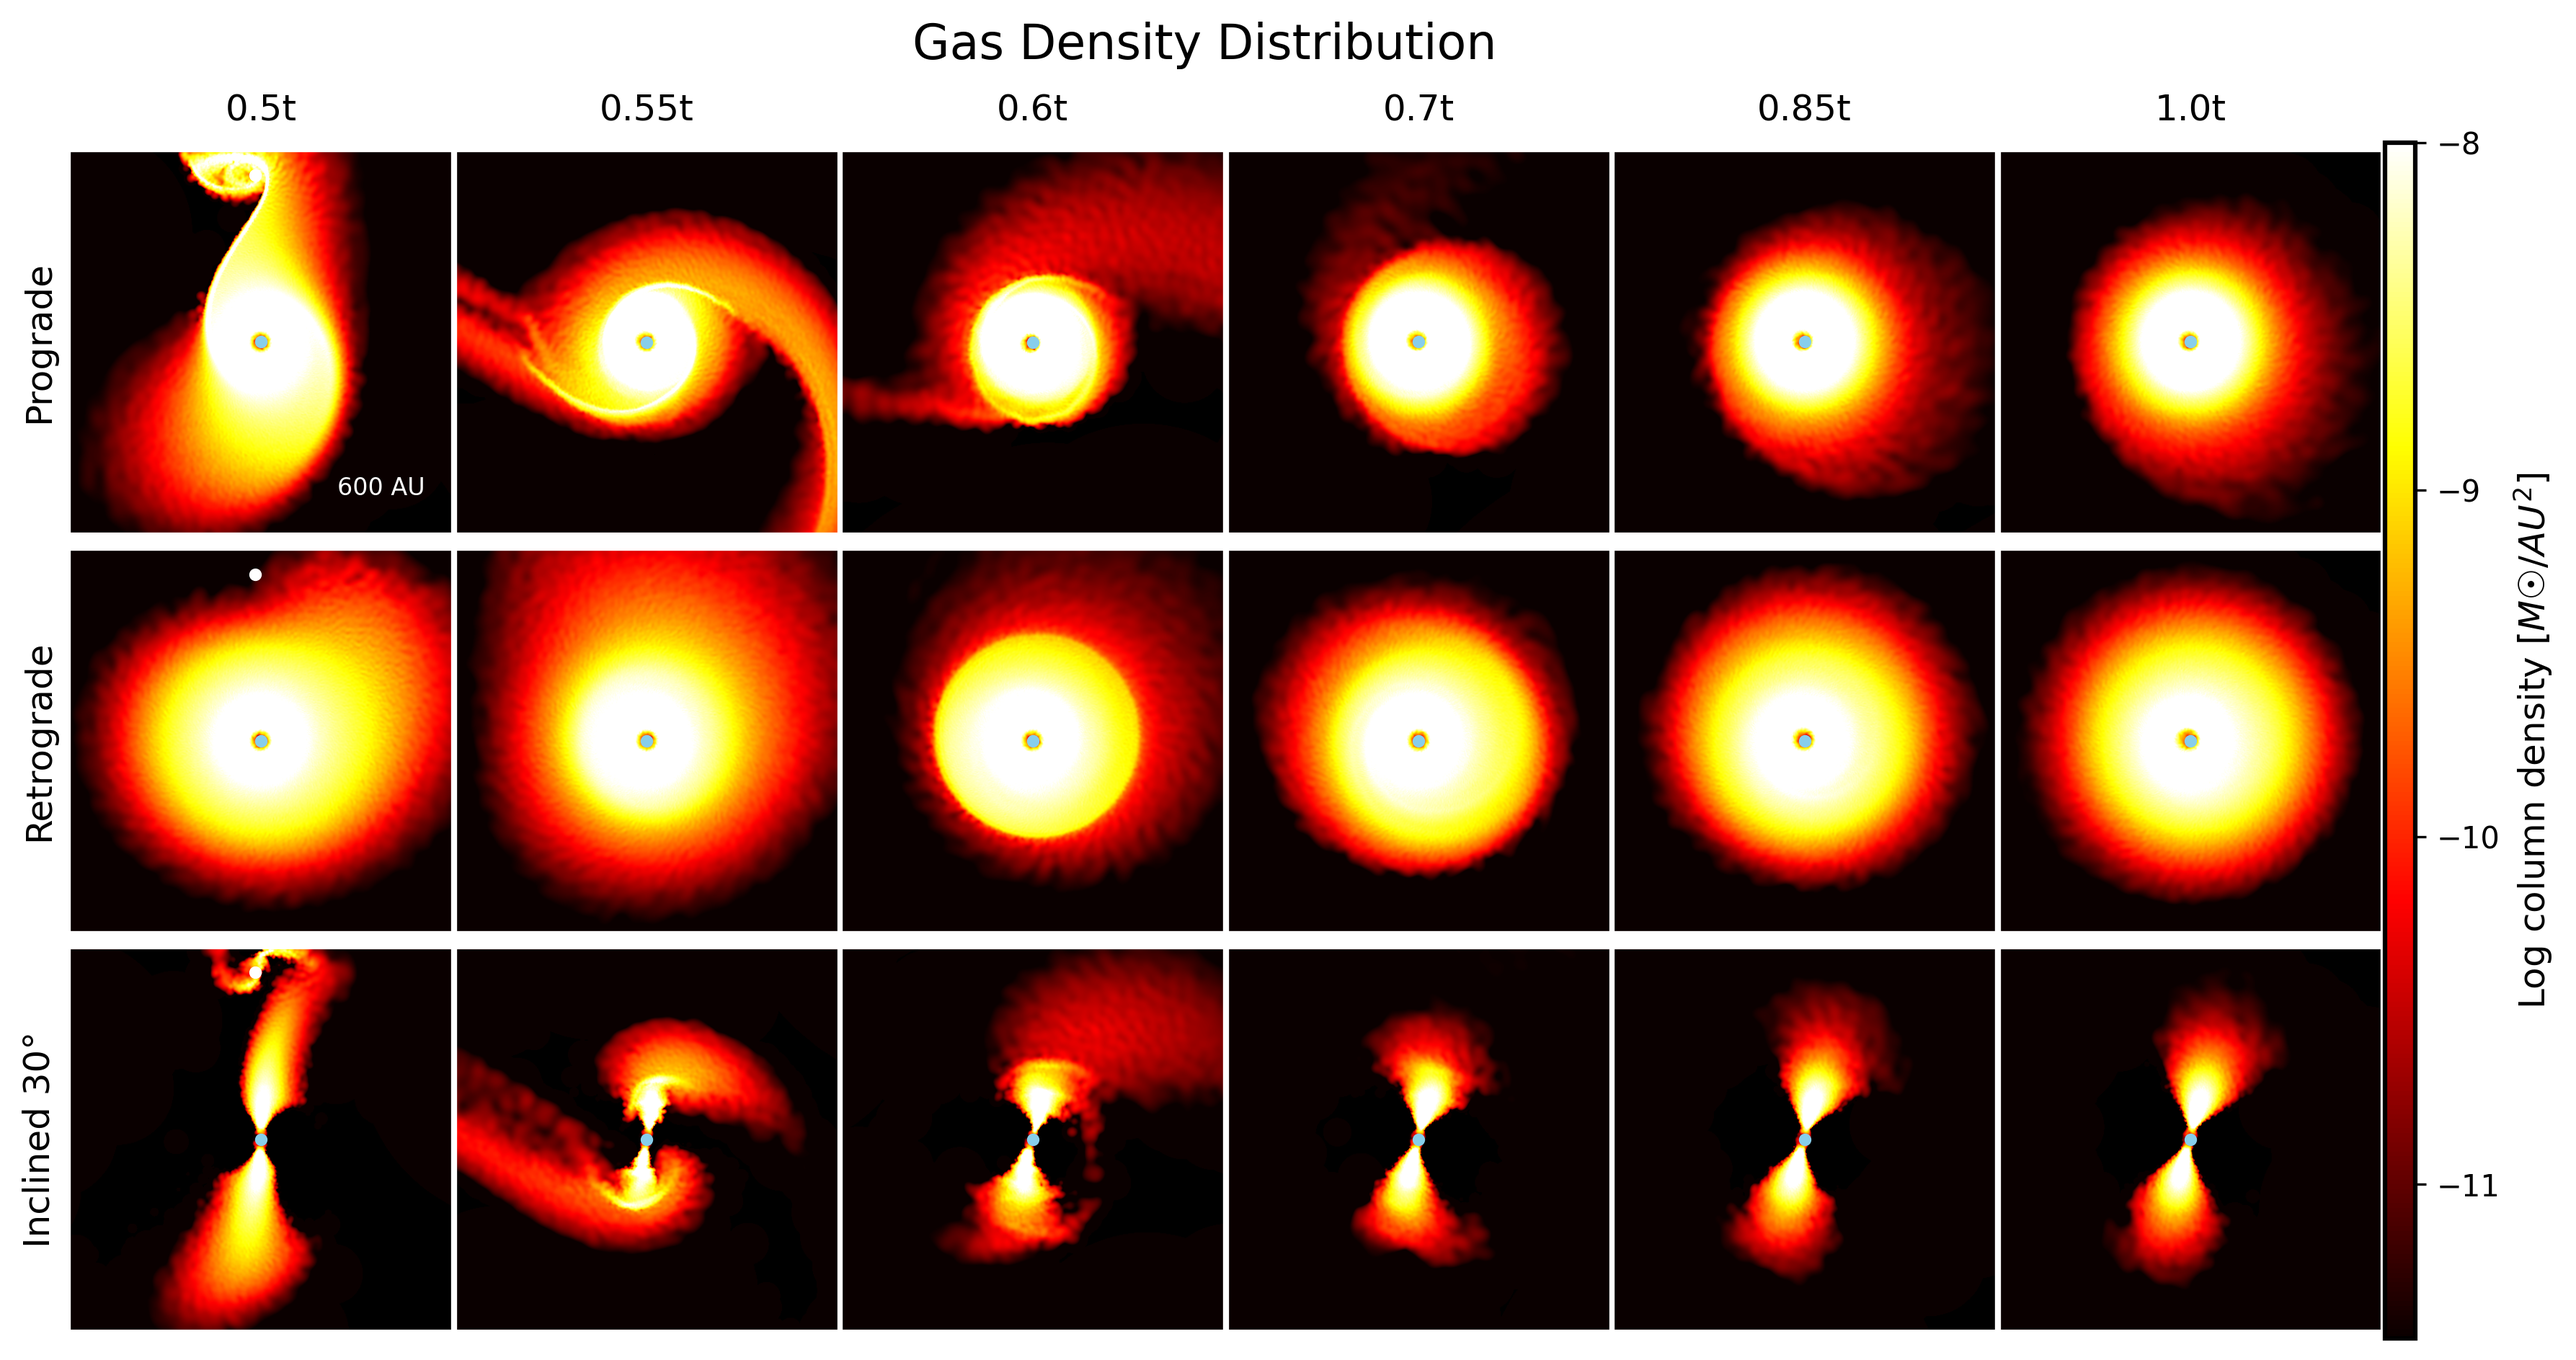
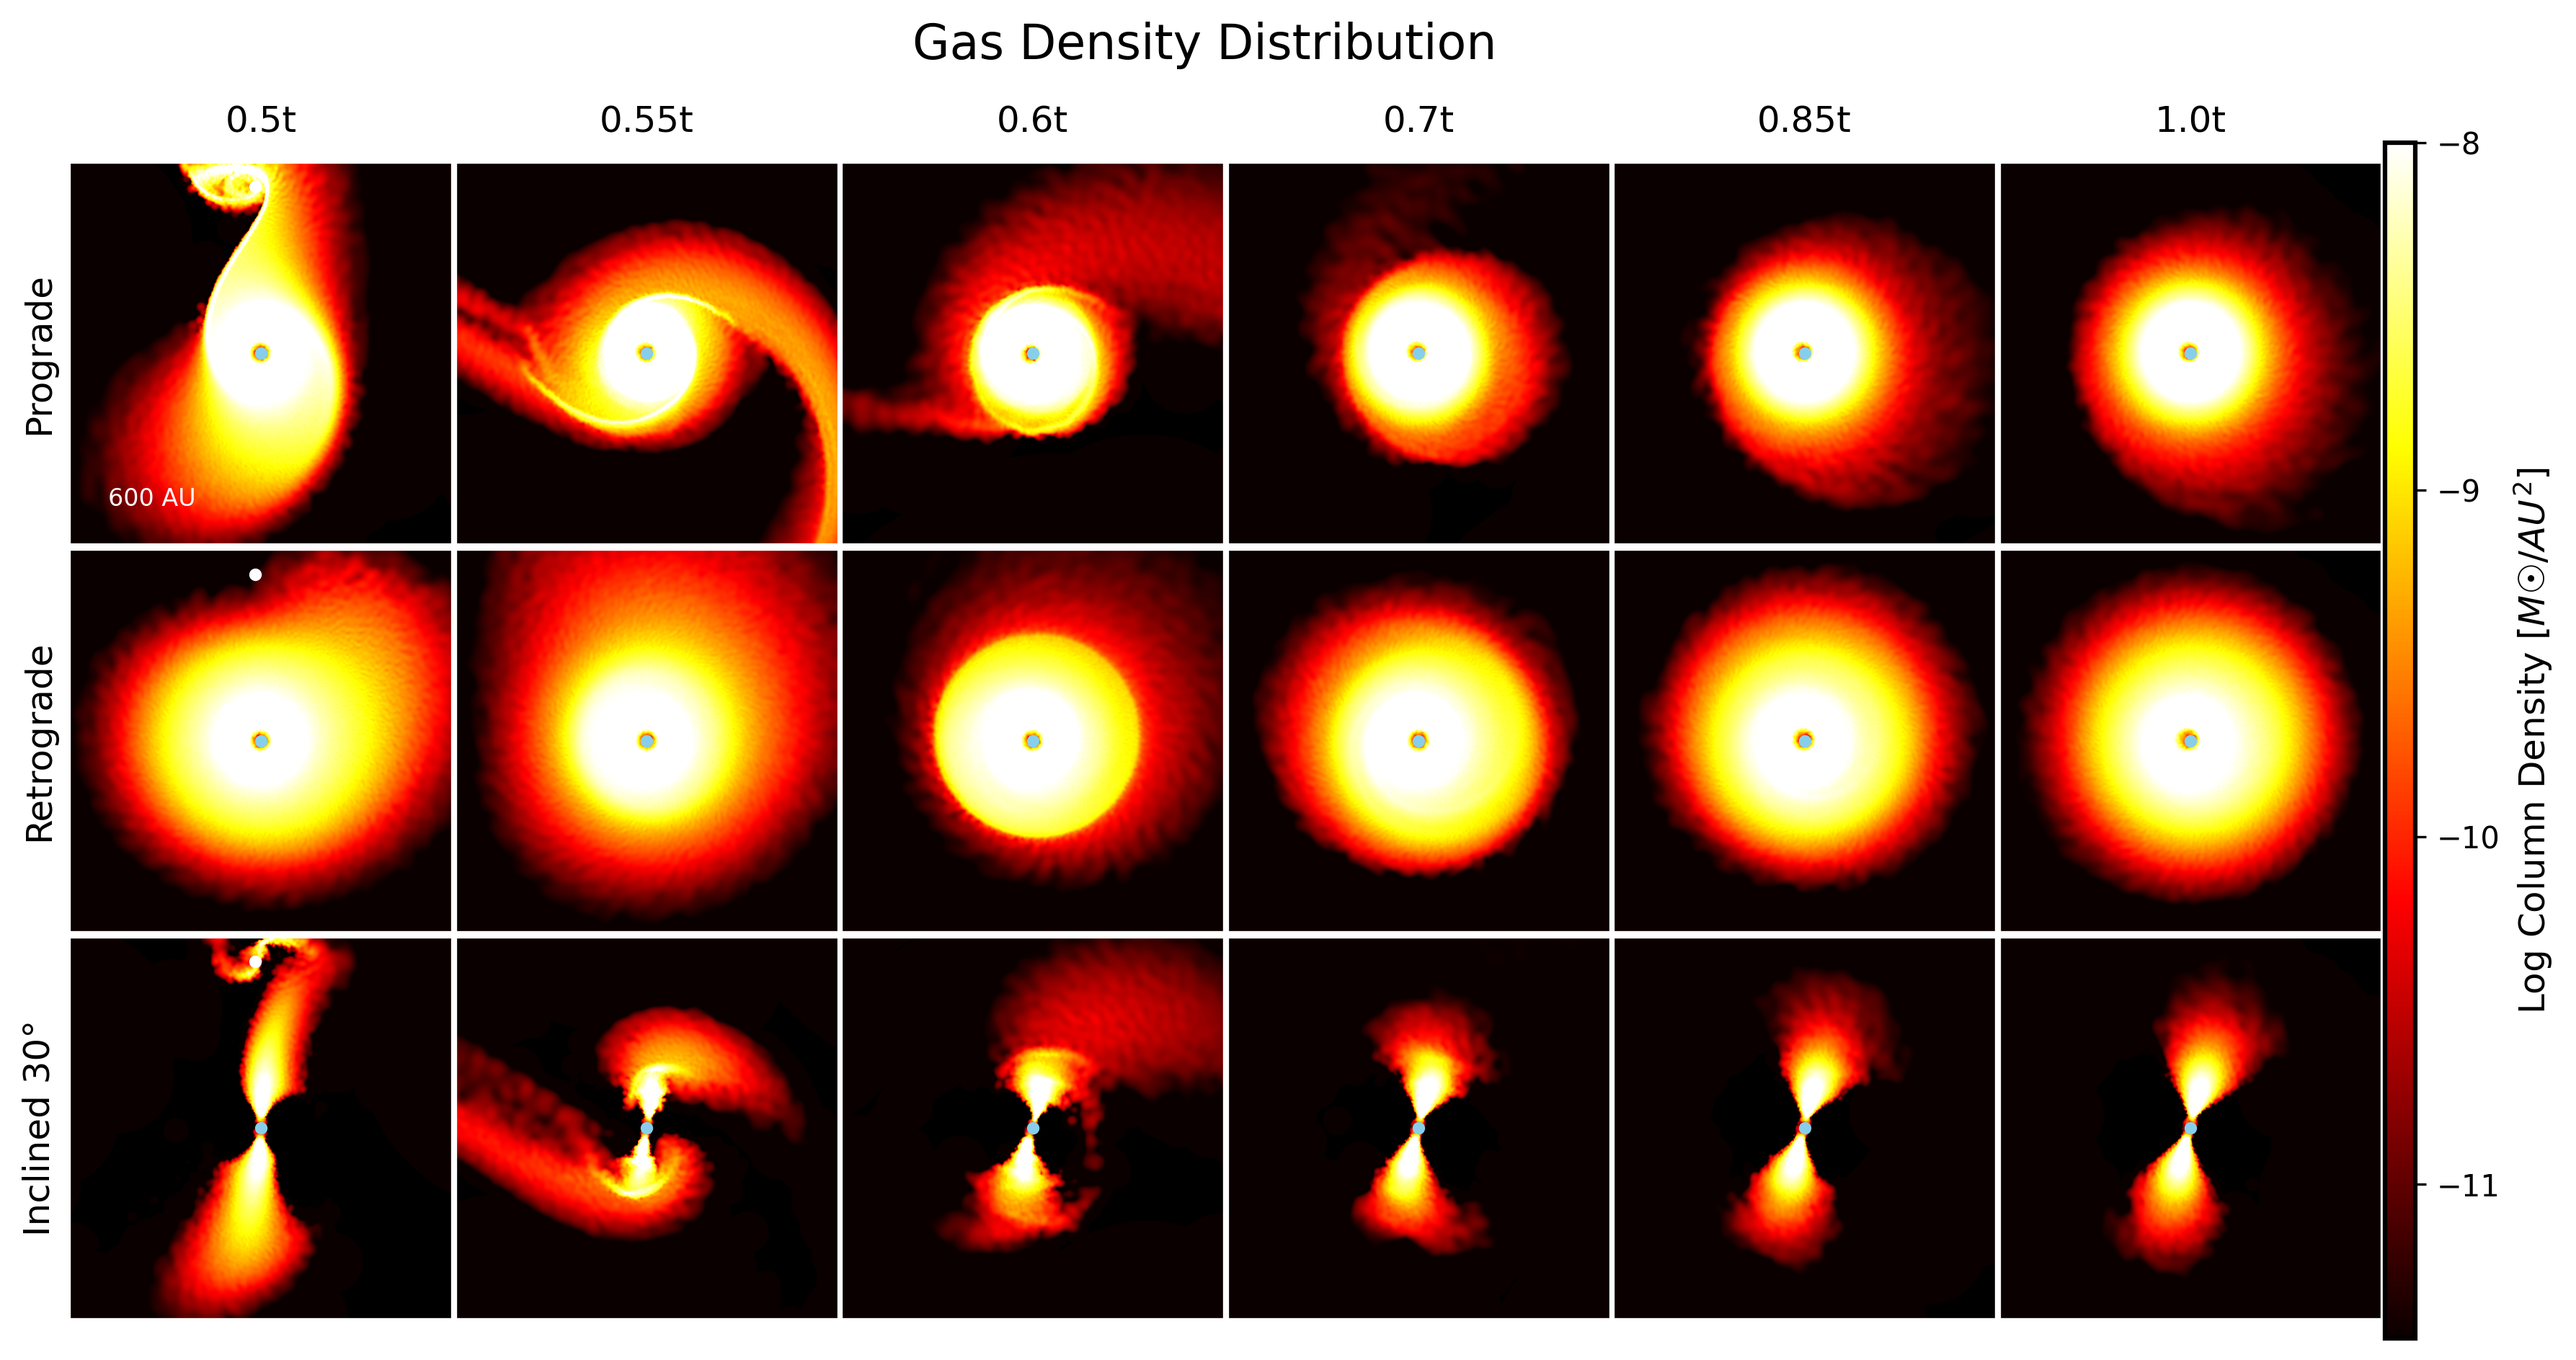
finalised renders

diff --git a/render_plots_portrait.py b/render_plots_portrait.py
@@ -32,7 +32,7 @@ def render_plot(subplot, sectional_view):
         figure=fig,
         width_ratios=[1] * n_cols + [0.08],
         wspace=0.01,
-        hspace=0.01
+        hspace=-0.08
     )
 
     axes = np.empty((n_rows, n_cols), dtype=object)
@@ -79,7 +79,7 @@ def render_plot(subplot, sectional_view):
             xmin, xmax = ax.get_xlim()
             ymin, ymax = ax.get_ylim()
 
-            x_text = xmax - 0.3 * (xmax - xmin)
+            x_text = xmax - 0.9 * (xmax - xmin)
             y_text = ymin + 0.1 * (ymax - ymin)
 
             if i == 0 and j == 0:
@@ -118,7 +118,7 @@ def render_plot(subplot, sectional_view):
     cbar = fig.colorbar(mappable_for_cbar, cax=cax)
     cbar.outline.set_edgecolor('black')
     cbar.outline.set_linewidth(1.5)
-    cbar.set_label("Log column density [$M☉/AU^2$]", fontsize=12)
+    cbar.set_label("Log Column Density [$M☉/AU^2$]", fontsize=12)
     cbar.ax.yaxis.label.set_color('black')
     cbar.ax.tick_params(colors='black')
     cbar.ax.yaxis.set_major_formatter(LogFormatterExponent())
@@ -129,7 +129,7 @@ def render_plot(subplot, sectional_view):
     fig.suptitle(titles[subplot], fontsize=16, y=0.98, color = 'black')
     fig.subplots_adjust(top=0.90)
 
-SECTIONAL_VIEW = True
+SECTIONAL_VIEW = False
 
 render_list = ['gas','dust1','dust2']
 #render_list = ['dust1','dust2']
